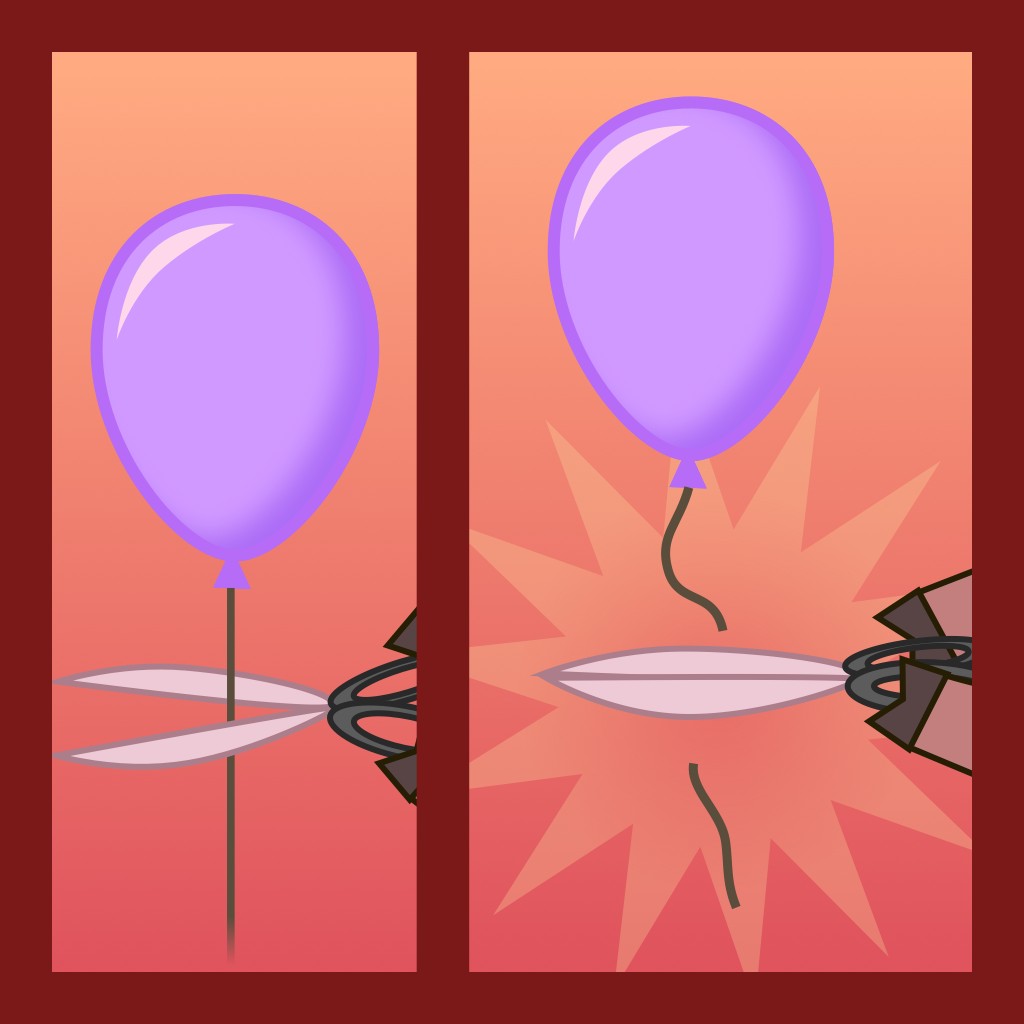
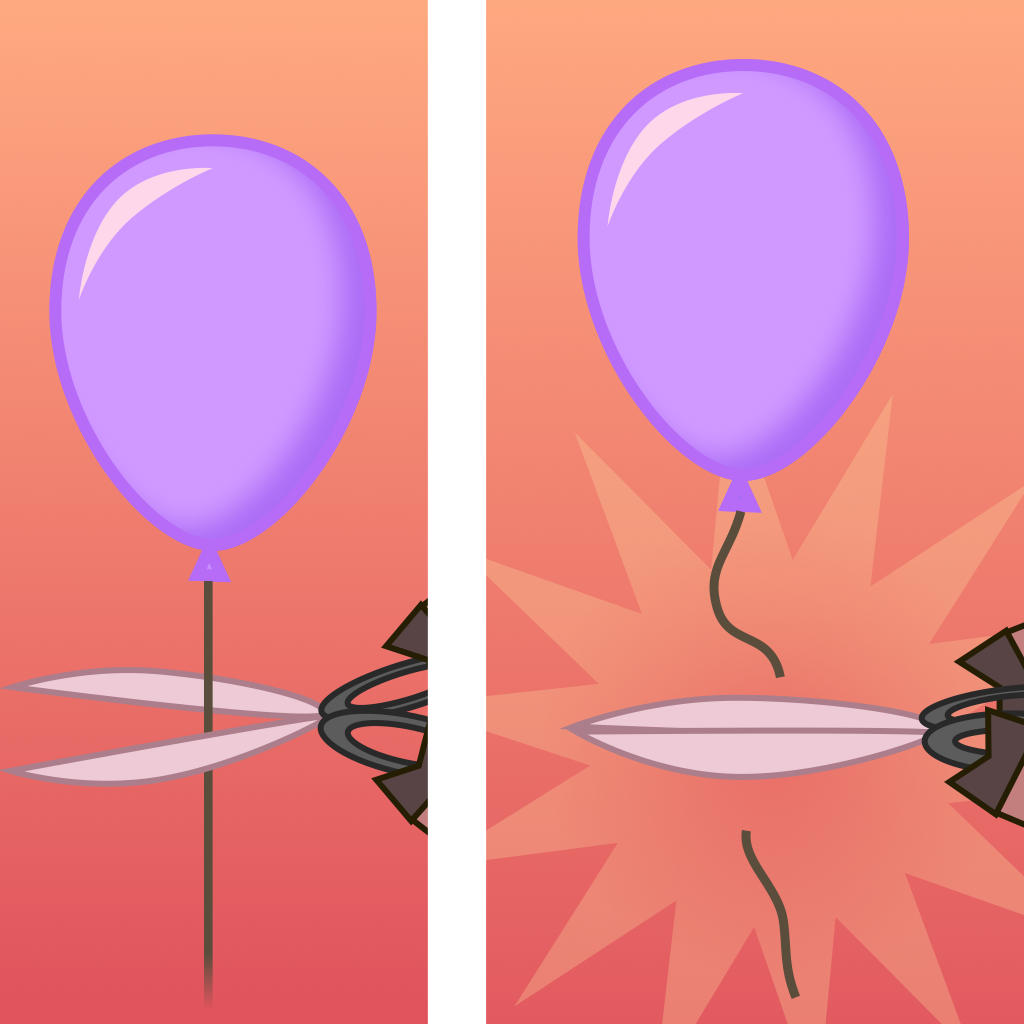
redid the intro scene with new graphics according to new sketch

diff --git a/src/js/intro1Scene.js b/src/js/intro1Scene.js
@@ -23,7 +23,7 @@ var intro1Scene = {
     global.baseStage.addChild(this.container)
 
     // create animation layer
-    var bgGradient = new PIXI.Sprite(PIXI.loader.resources['intro1_bg_gradient'].texture)
+    var bgGradient = new PIXI.Sprite(PIXI.loader.resources['intro1_bg'].texture)
     bgGradient.width = global.renderer.view.width
     bgGradient.height = global.renderer.view.height
     this.animationLayer.addChild(bgGradient)
@@ -40,17 +40,19 @@ var intro1Scene = {
     }
     
     // create gui layer
+    var buttonY = frameSprites[1].y + frameSprites[1].height
+    var buttonWidthSpace = (global.renderer.view.width - frameSprites[1].width) / 2
     var imageButtonBack = new PIXI.Sprite(PIXI.loader.resources['button_back'].texture)
     imageButtonBack.anchor.x = 0.5
     imageButtonBack.anchor.y = 0.5
-    imageButtonBack.x = global.renderer.view.width * 0.25
-    imageButtonBack.y = global.renderer.view.height * 0.8
+    imageButtonBack.x = buttonWidthSpace / 2
+    imageButtonBack.y = buttonY
 
     var imageButtonForward = new PIXI.Sprite(PIXI.loader.resources['button_next'].texture)
     imageButtonForward.anchor.x = 0.5
     imageButtonForward.anchor.y = 0.5
-    imageButtonForward.x = global.renderer.view.width * 0.75
-    imageButtonForward.y = global.renderer.view.height * 0.8
+    imageButtonForward.x = global.renderer.view.width - buttonWidthSpace / 2
+    imageButtonForward.y = buttonY
 
     this.guiLayer.addChild(imageButtonBack)
     this.guiLayer.addChild(imageButtonForward)

diff --git a/src/js/loadScene.js b/src/js/loadScene.js
@@ -56,7 +56,7 @@ var loadScene = {
     .add('finish_level_1', 'assets/images/finish_level_1.png')
 
     // intro 1 scene
-    .add('intro1_bg_gradient', 'assets/images/intro1_bg_gradient.png')
+    .add('intro1_bg', 'assets/images/intro1_bg.png')
     .add('intro1_1', 'assets/images/intro1_1.png')
     .add('intro1_2', 'assets/images/intro1_2.png')
     .add('intro1_3', 'assets/images/intro1_3.png')
